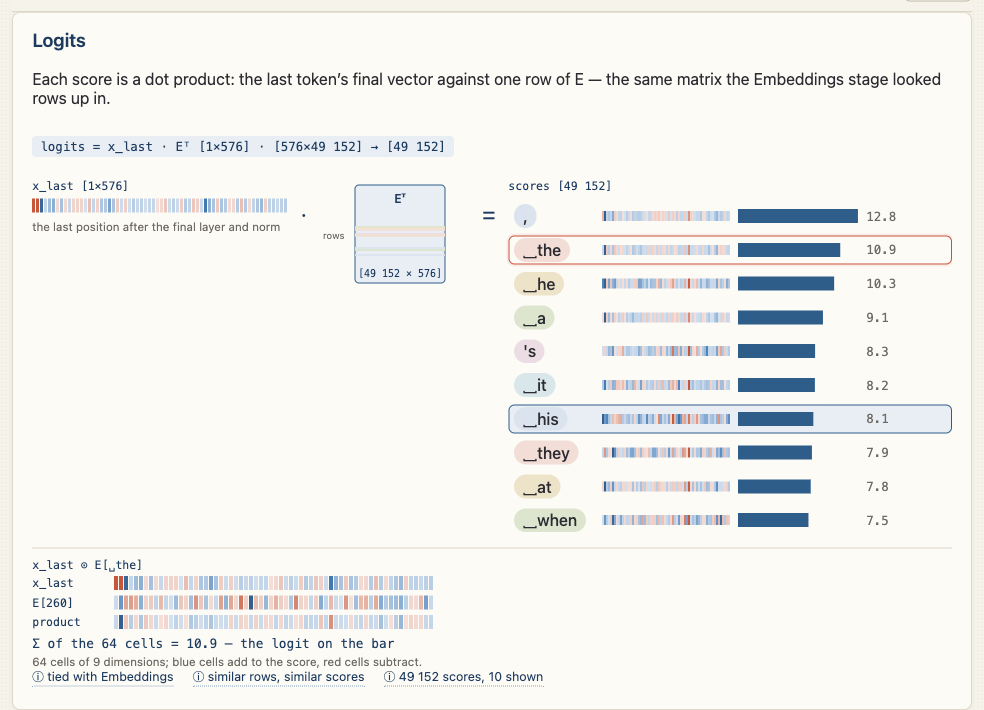
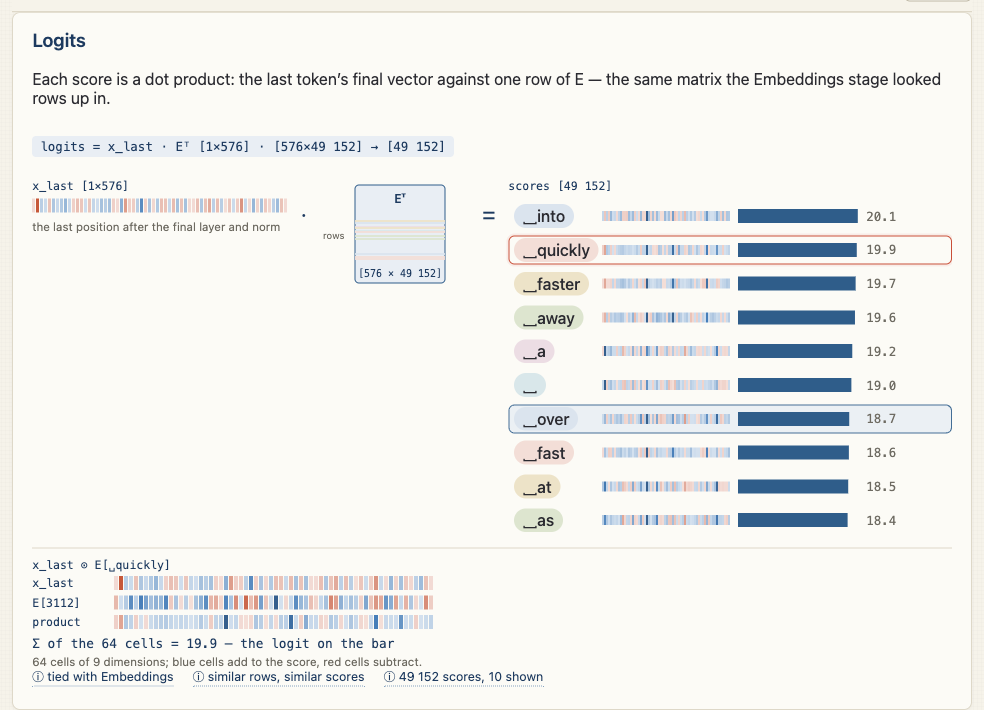
fix(viz): the Eᵀ box reads [576 × 49 152], matching the formula line; spec budget corrected
Claude-Session: https://claude.ai/code/session_01C5Vm2gjXesexa1FxxqruHL

diff --git a/src/viz/LogitsReadout.test.tsx b/src/viz/LogitsReadout.test.tsx
@@ -67,7 +67,11 @@ test('softmax state shows percentages while strips stay', () => {
 
 test('matrix sketch marks every candidate and the callouts explain the tie', () => {
   render(<LogitsReadout {...props()} />)
-  expect(screen.getByTestId('readout-matrix').querySelectorAll('[data-testid="readout-row-mark"]')).toHaveLength(3)
+  const matrix = screen.getByTestId('readout-matrix')
+  expect(matrix.querySelectorAll('[data-testid="readout-row-mark"]')).toHaveLength(3)
+  // the box is labelled Eᵀ, so its shape must read transposed — the same shape the formula line shows
+  expect(matrix).toHaveTextContent('Eᵀ')
+  expect(matrix).toHaveTextContent('[576 × 49 152]')
   const callouts = screen.getAllByTestId('embed-callout').map((c) => c.textContent)
   expect(callouts).toEqual(['ⓘ tied with Embeddings', 'ⓘ similar rows, similar scores', 'ⓘ 49 152 scores, 3 shown'])
 })

diff --git a/src/viz/LogitsReadout.tsx b/src/viz/LogitsReadout.tsx
@@ -64,7 +64,7 @@ export function LogitsReadout({ candidates, probs, lastHidden, dims, vocabSize, 
           aria-label={`the embedding matrix E read as Eᵀ, ${vocab} rows by ${dims} columns`}>
           <rect x="36" y="6" width="90" height="98" rx="4" className="rs-box" />
           <text x="81" y="24" textAnchor="middle" className="rs-box-label">Eᵀ</text>
-          <text x="81" y="98" textAnchor="middle" className="rs-shape">[{vocab} × {dims}]</text>
+          <text x="81" y="98" textAnchor="middle" className="rs-shape">[{dims} × {vocab}]</text>
           {candidates.map((c, i) => (
             <rect key={c.id} data-testid="readout-row-mark" x="36" y={rowMarkY(c.id)} width="90" height={i === selected ? 4 : 2}
               className={`readout-row-mark hue-fill-${i % 6}`} data-selected={String(i === selected)} />

diff --git a/docs/superpowers/specs/2026-10-09-logits-readout-design.md b/docs/superpowers/specs/2026-10-09-logits-readout-design.md
@@ -207,9 +207,11 @@ geometry URL contains the revision.
   values whose `dot` cells sum to the fixture logit; the sim fixture does
   not.
 
-Budget: per cycle, 576 + 10 × (64 + 64) ≈ 1 900 numbers, about 8 KB of
-JSON; a 50-cycle run adds about 400 KB — comparable to M4's embedding
-rows. The archive ring of 8 unpinned runs stays within a few MB.
+Budget: per cycle, 576 + 10 × (64 + 64) ≈ 1 900 numbers at 3 decimals,
+measured at about 13 KB of JSON; a 50-cycle run adds about 650 KB —
+comparable to M4's embedding rows plus the attention data a real run
+already carries. The archive ring of 8 unpinned runs stays within a few
+MB in IndexedDB.
 
 ## Component 4: the card
 
@@ -259,7 +261,8 @@ one piece of state (the selected candidate index, default 0, snapping to
   to probabilities as today; the strips and the bench do not change.
 - *Bench.* For the selected candidate: three aligned 64-cell strips at
   5 px — `x_last`, `E[id]` (`row`), and `product` (`dot`) — with row labels
-  and the sum of the `dot` cells to 2 decimals next to the logit. Each
+  and the sum of the `dot` cells to 1 decimal (the bar's precision) next to
+  the logit. Each
   strip's colour scale is relative to its own peak (as in Embeddings).
   Cells carry `<title>` tooltips: "dims 63–71: x̄ 0.42 · ē −0.18 → −0.77".
   Without `dot` (sim/legacy) the bench shows `x_last` placeholder and the
